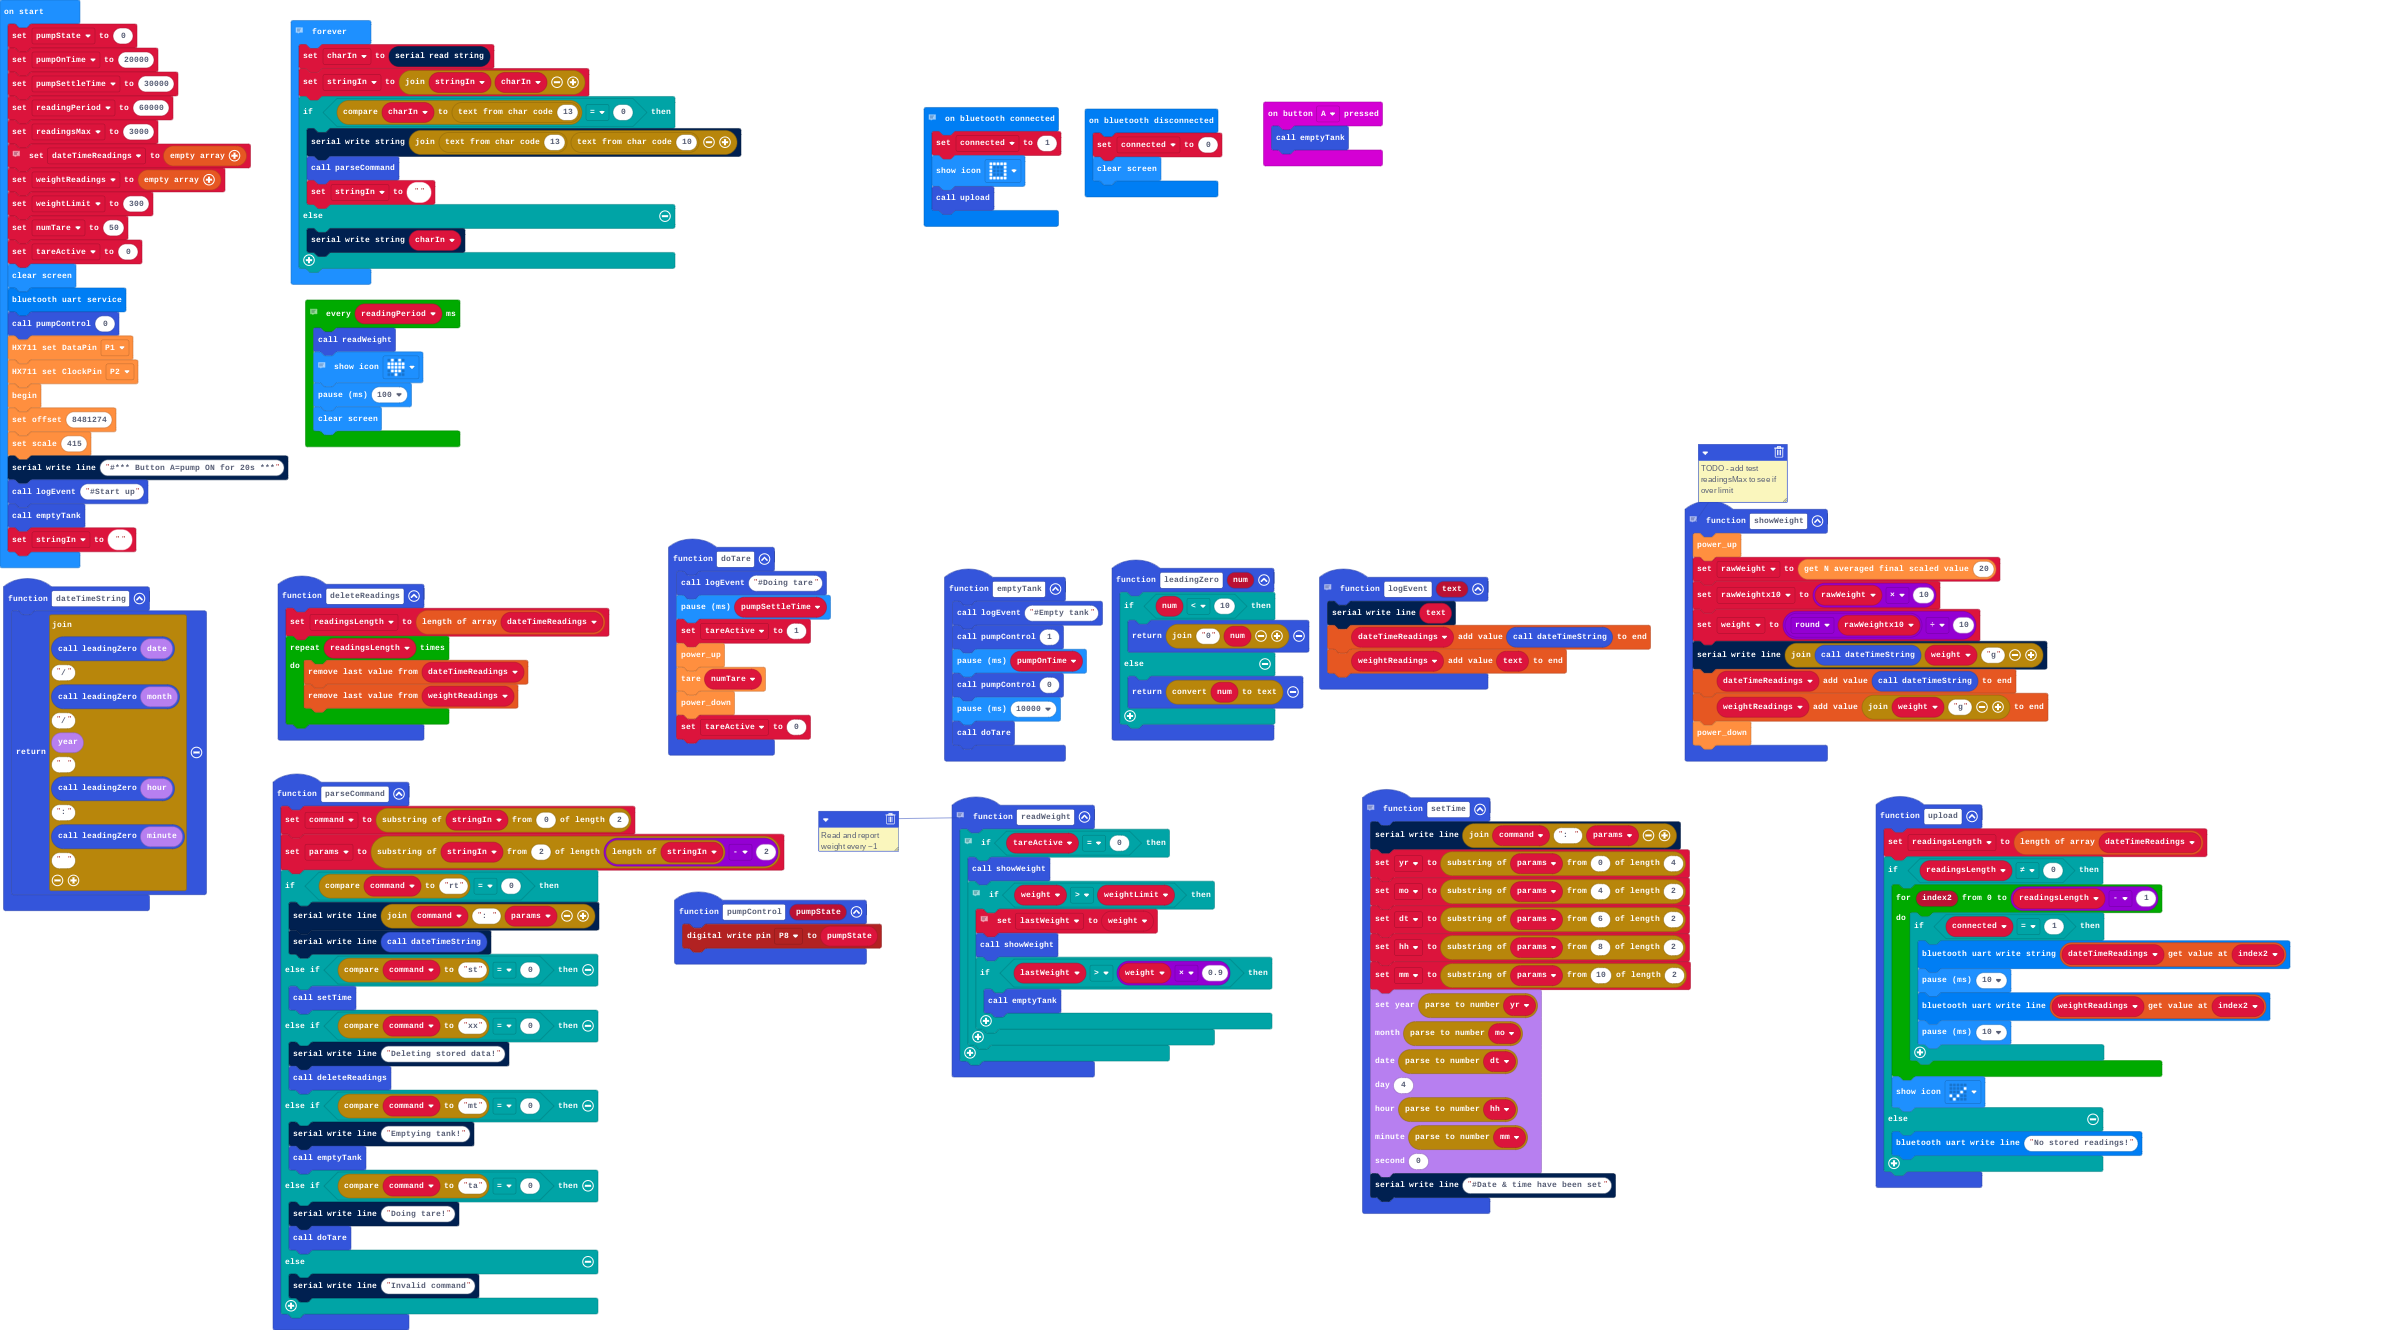
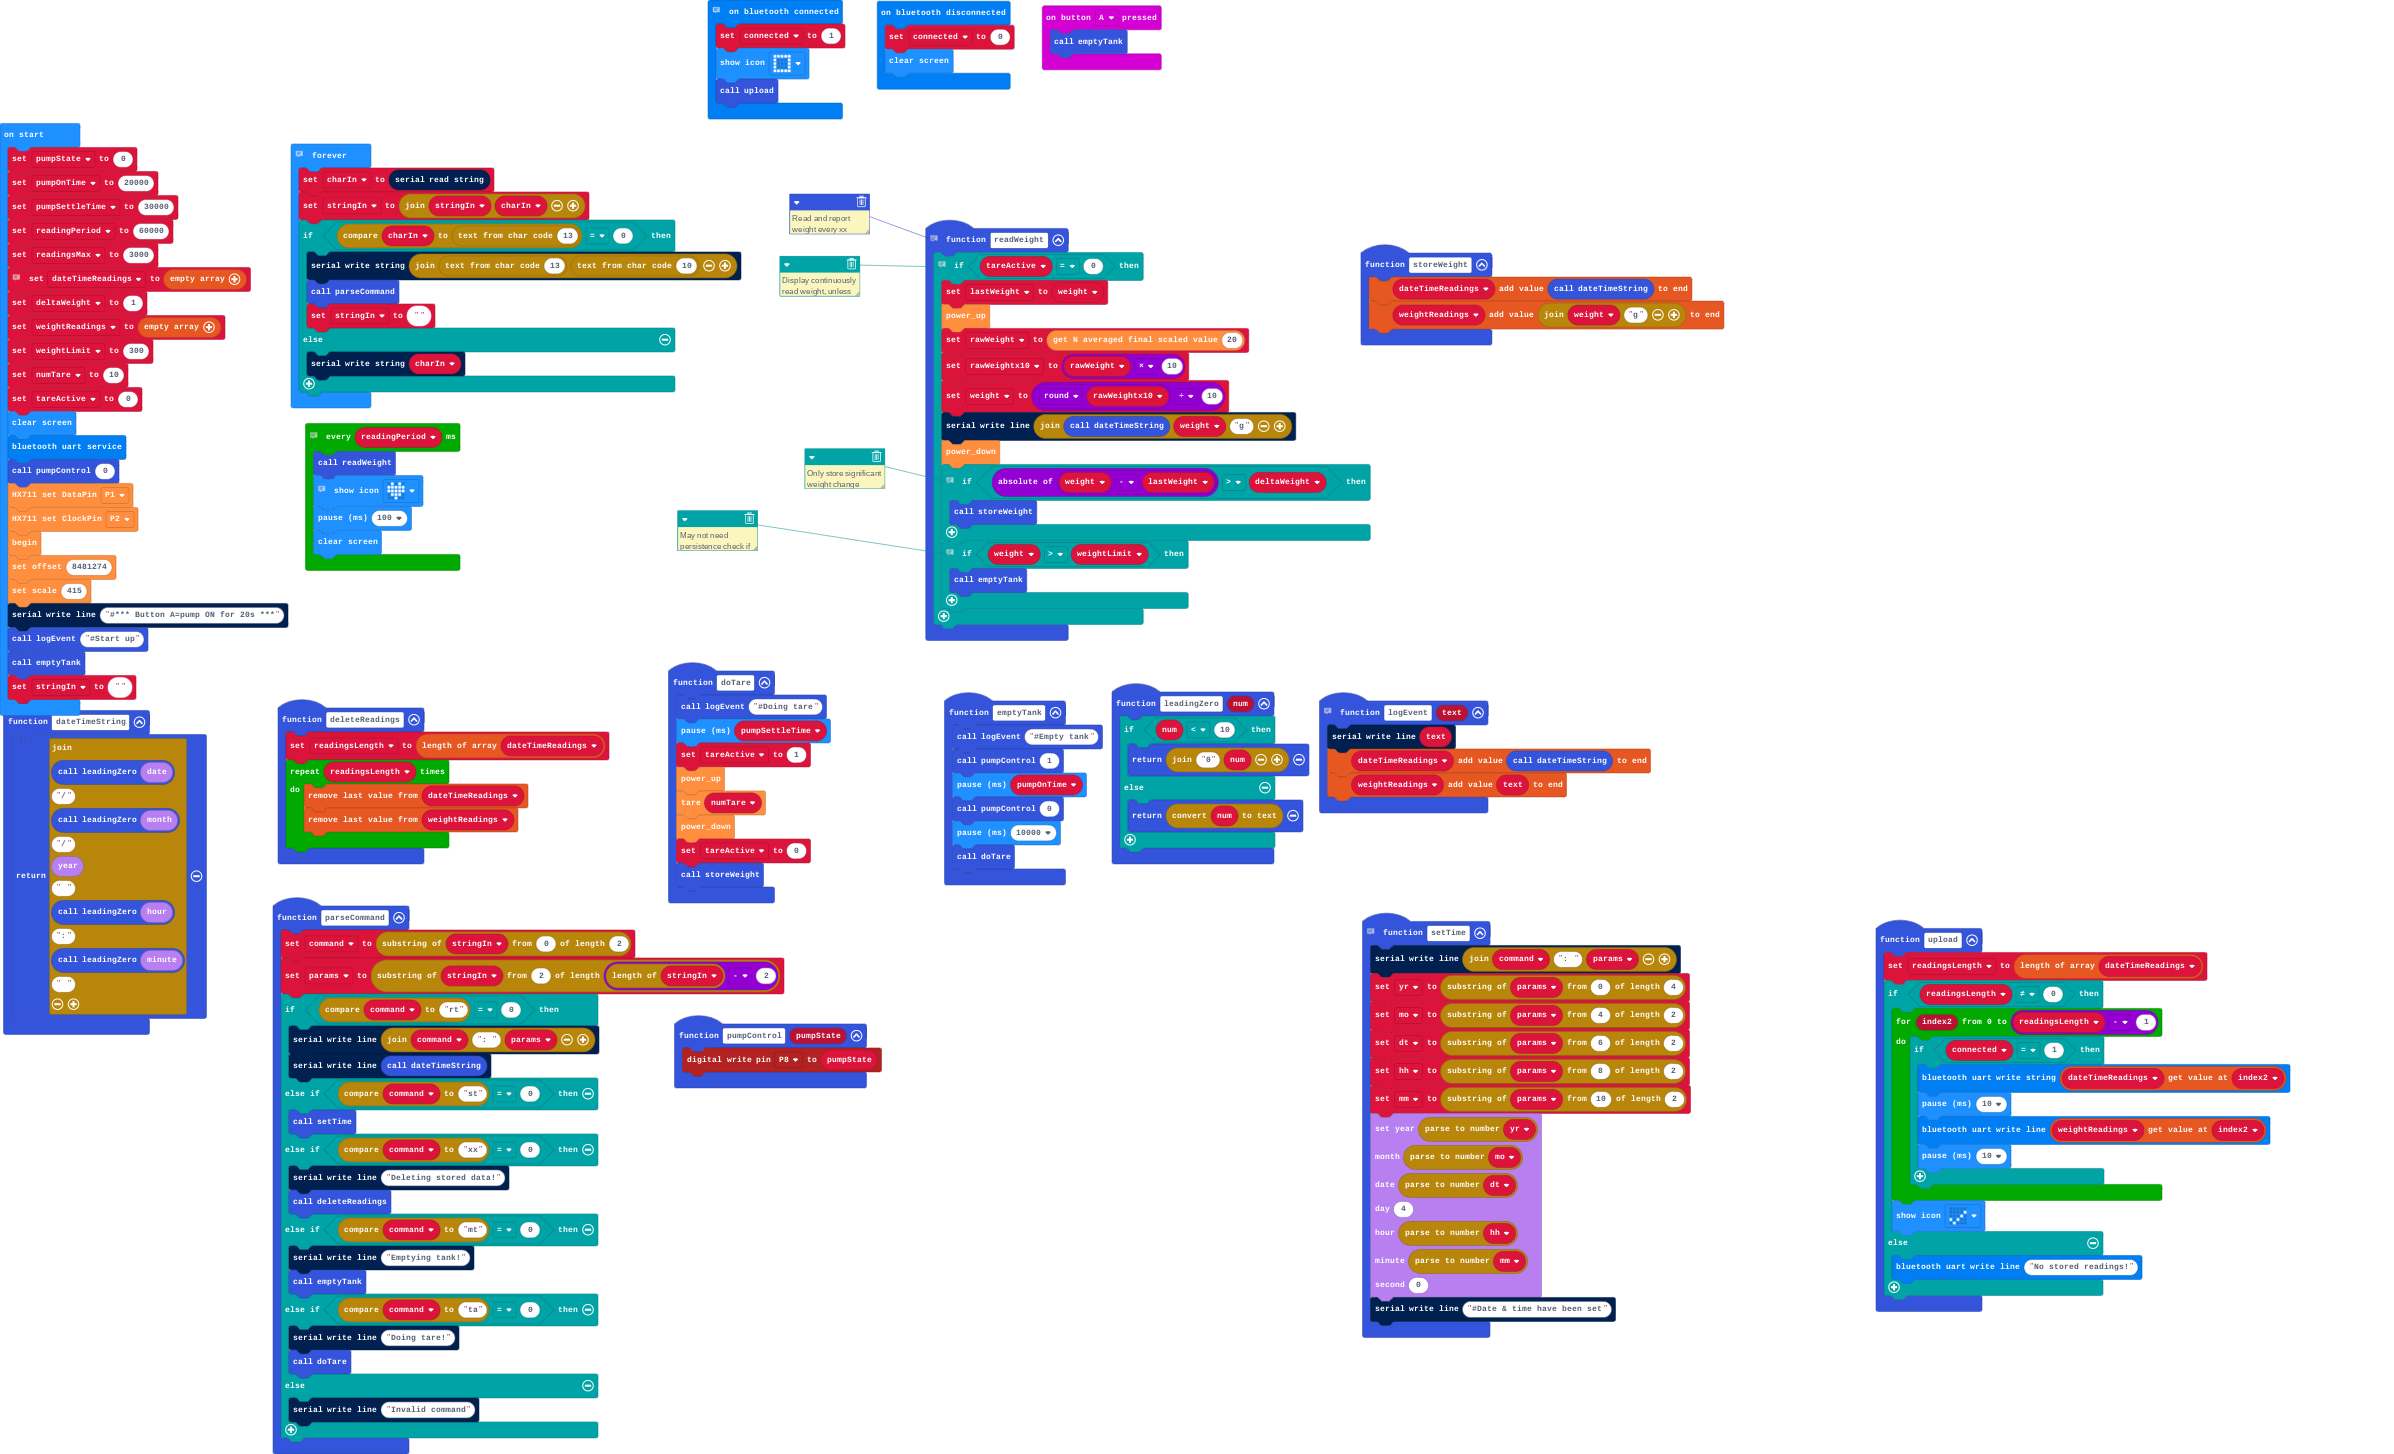
Store only changes (deltaWeight)

diff --git a/main.ts b/main.ts
@@ -6,17 +6,7 @@ function doTare () {
     HX711.tare(numTare)
     HX711.power_down()
     tareActive = 0
-}
-// TODO - add test readingsMax to see if over limit
-function showWeight () {
-    HX711.power_up()
-    rawWeight = HX711.get_units(20)
-    rawWeightx10 = rawWeight * 10
-    weight = Math.round(rawWeightx10) / 10
-    serial.writeLine("" + dateTimeString() + weight + "g")
-    dateTimeReadings.push(dateTimeString())
-    weightReadings.push("" + weight + "g")
-    HX711.power_down()
+    storeWeight()
 }
 function parseCommand () {
     command = stringIn.substr(0, 2)
@@ -69,21 +59,30 @@ bluetooth.onBluetoothDisconnected(function () {
 input.onButtonPressed(Button.A, function () {
     emptyTank()
 })
-// Read and report weight every ~1 minute TODO add persistence check!!!!
+// Read and report weight every xx minutes
 function readWeight () {
-    // Display continuously unless tare is operating
+    // Display continuously read weight, unless tare is operating
     if (tareActive == 0) {
-        showWeight()
-        // Check if presistence
+        lastWeight = weight
+        HX711.power_up()
+        rawWeight = HX711.get_units(20)
+        rawWeightx10 = rawWeight * 10
+        weight = Math.round(rawWeightx10) / 10
+        serial.writeLine("" + dateTimeString() + weight + "g")
+        HX711.power_down()
+        // Only store significant weight change
+        if (Math.abs(weight - lastWeight) > deltaWeight) {
+            storeWeight()
+        }
+        // May not need persistence check if we have a filtered PSU
         if (weight > weightLimit) {
-            // Ignore "large" transient change
-            lastWeight = weight
-            showWeight()
-            if (lastWeight > weight * 0.9) {
-                emptyTank()
-            }
+            emptyTank()
         }
     }
+}
+function storeWeight () {
+    dateTimeReadings.push(dateTimeString())
+    weightReadings.push("" + weight + "g")
 }
 // Store an event (text) and also send it to serial (USB)
 function logEvent (text: string) {
@@ -143,19 +142,20 @@ let hh = ""
 let dt = ""
 let mo = ""
 let yr = ""
+let rawWeightx10 = 0
+let rawWeight = 0
+let weight = 0
 let lastWeight = 0
 let connected = 0
 let readingsLength = 0
 let params = ""
 let command = ""
-let weight = 0
-let rawWeightx10 = 0
-let rawWeight = 0
 let stringIn = ""
 let tareActive = 0
 let numTare = 0
 let weightLimit = 0
 let weightReadings: string[] = []
+let deltaWeight = 0
 let dateTimeReadings: string[] = []
 let pumpSettleTime = 0
 let pumpOnTime = 0
@@ -166,9 +166,10 @@ let readingPeriod = 60000
 let readingsMax = 3000
 // storage
 dateTimeReadings = []
+deltaWeight = 1
 weightReadings = []
 weightLimit = 300
-numTare = 50
+numTare = 10
 tareActive = 0
 basic.clearScreen()
 bluetooth.startUartService()
